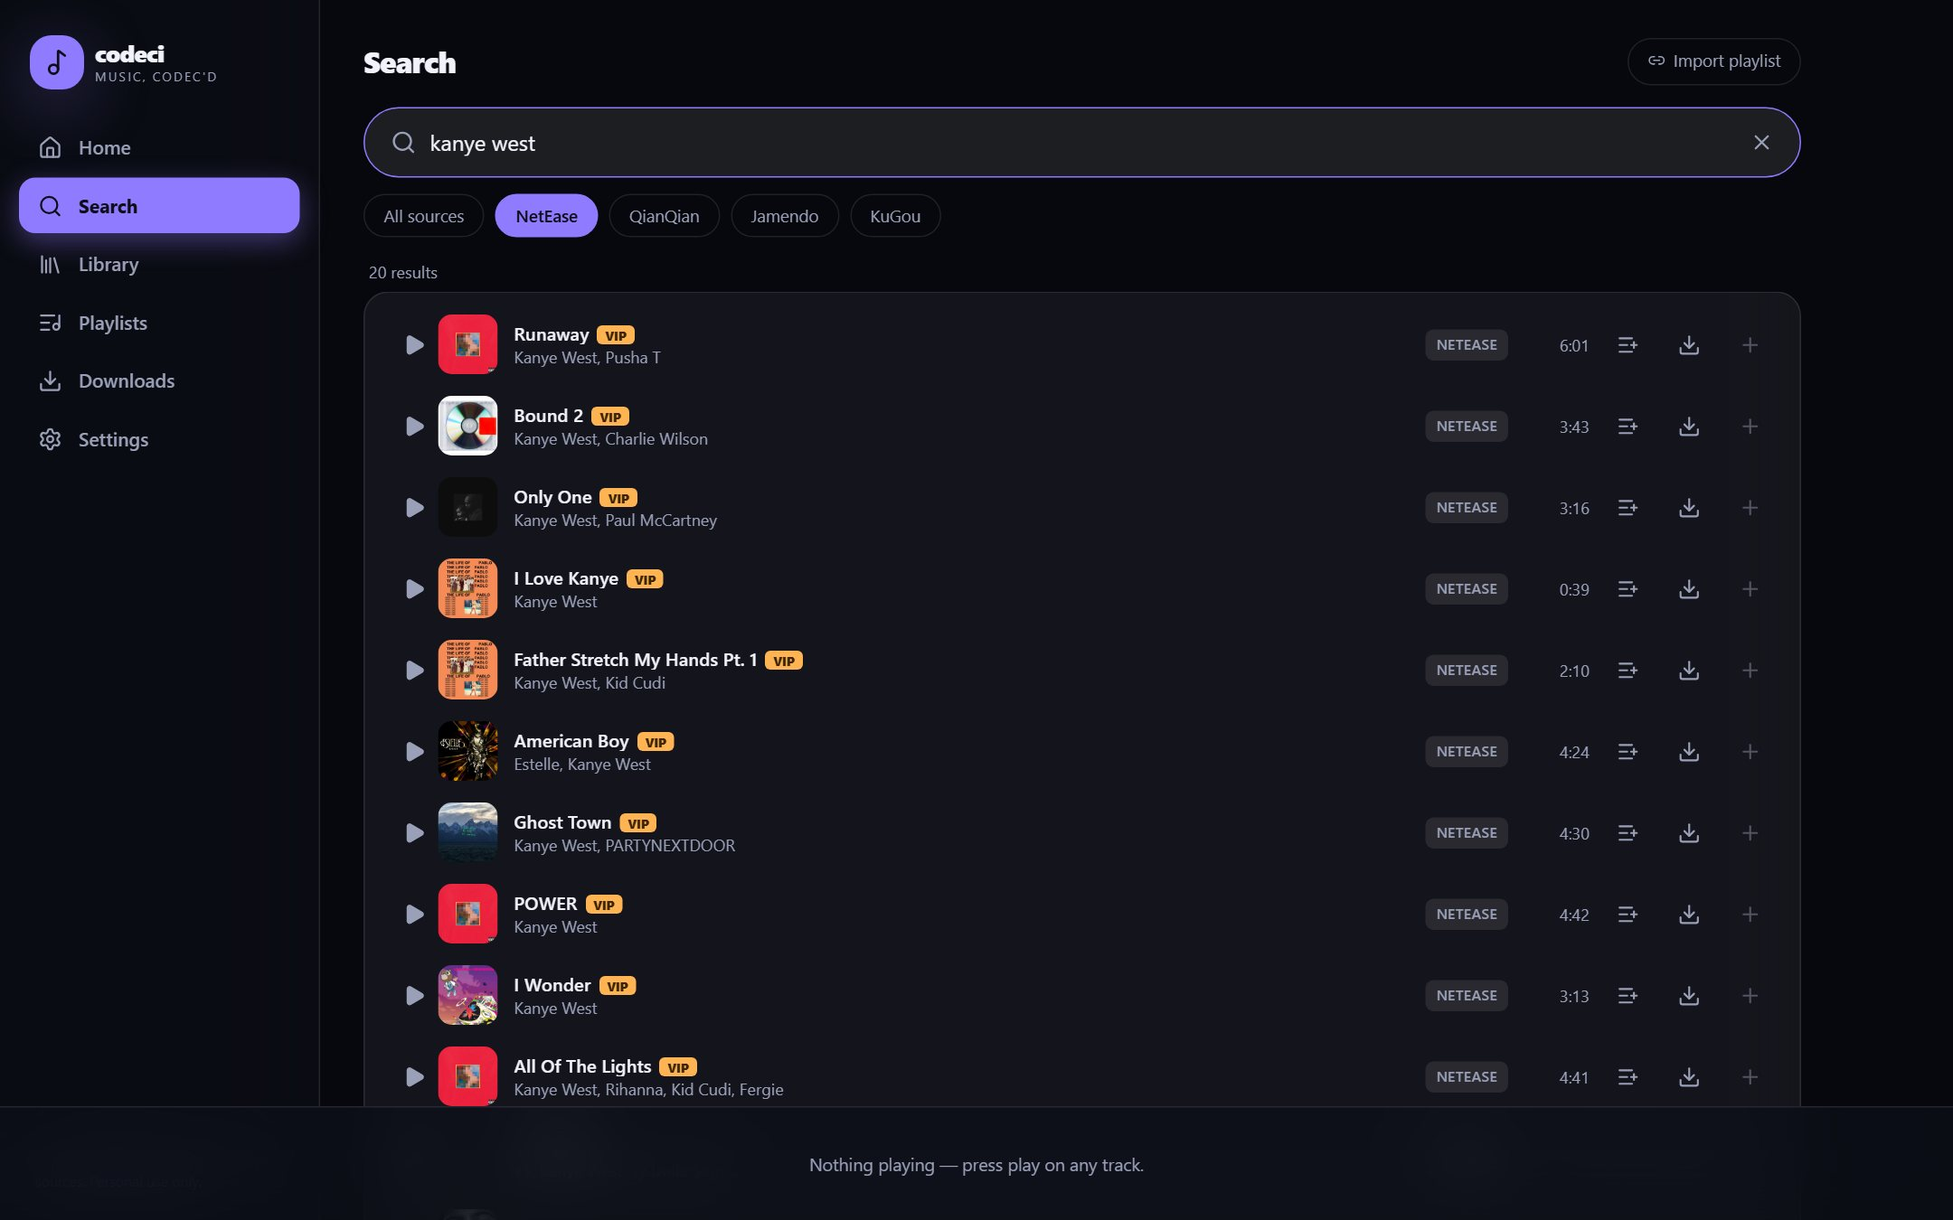
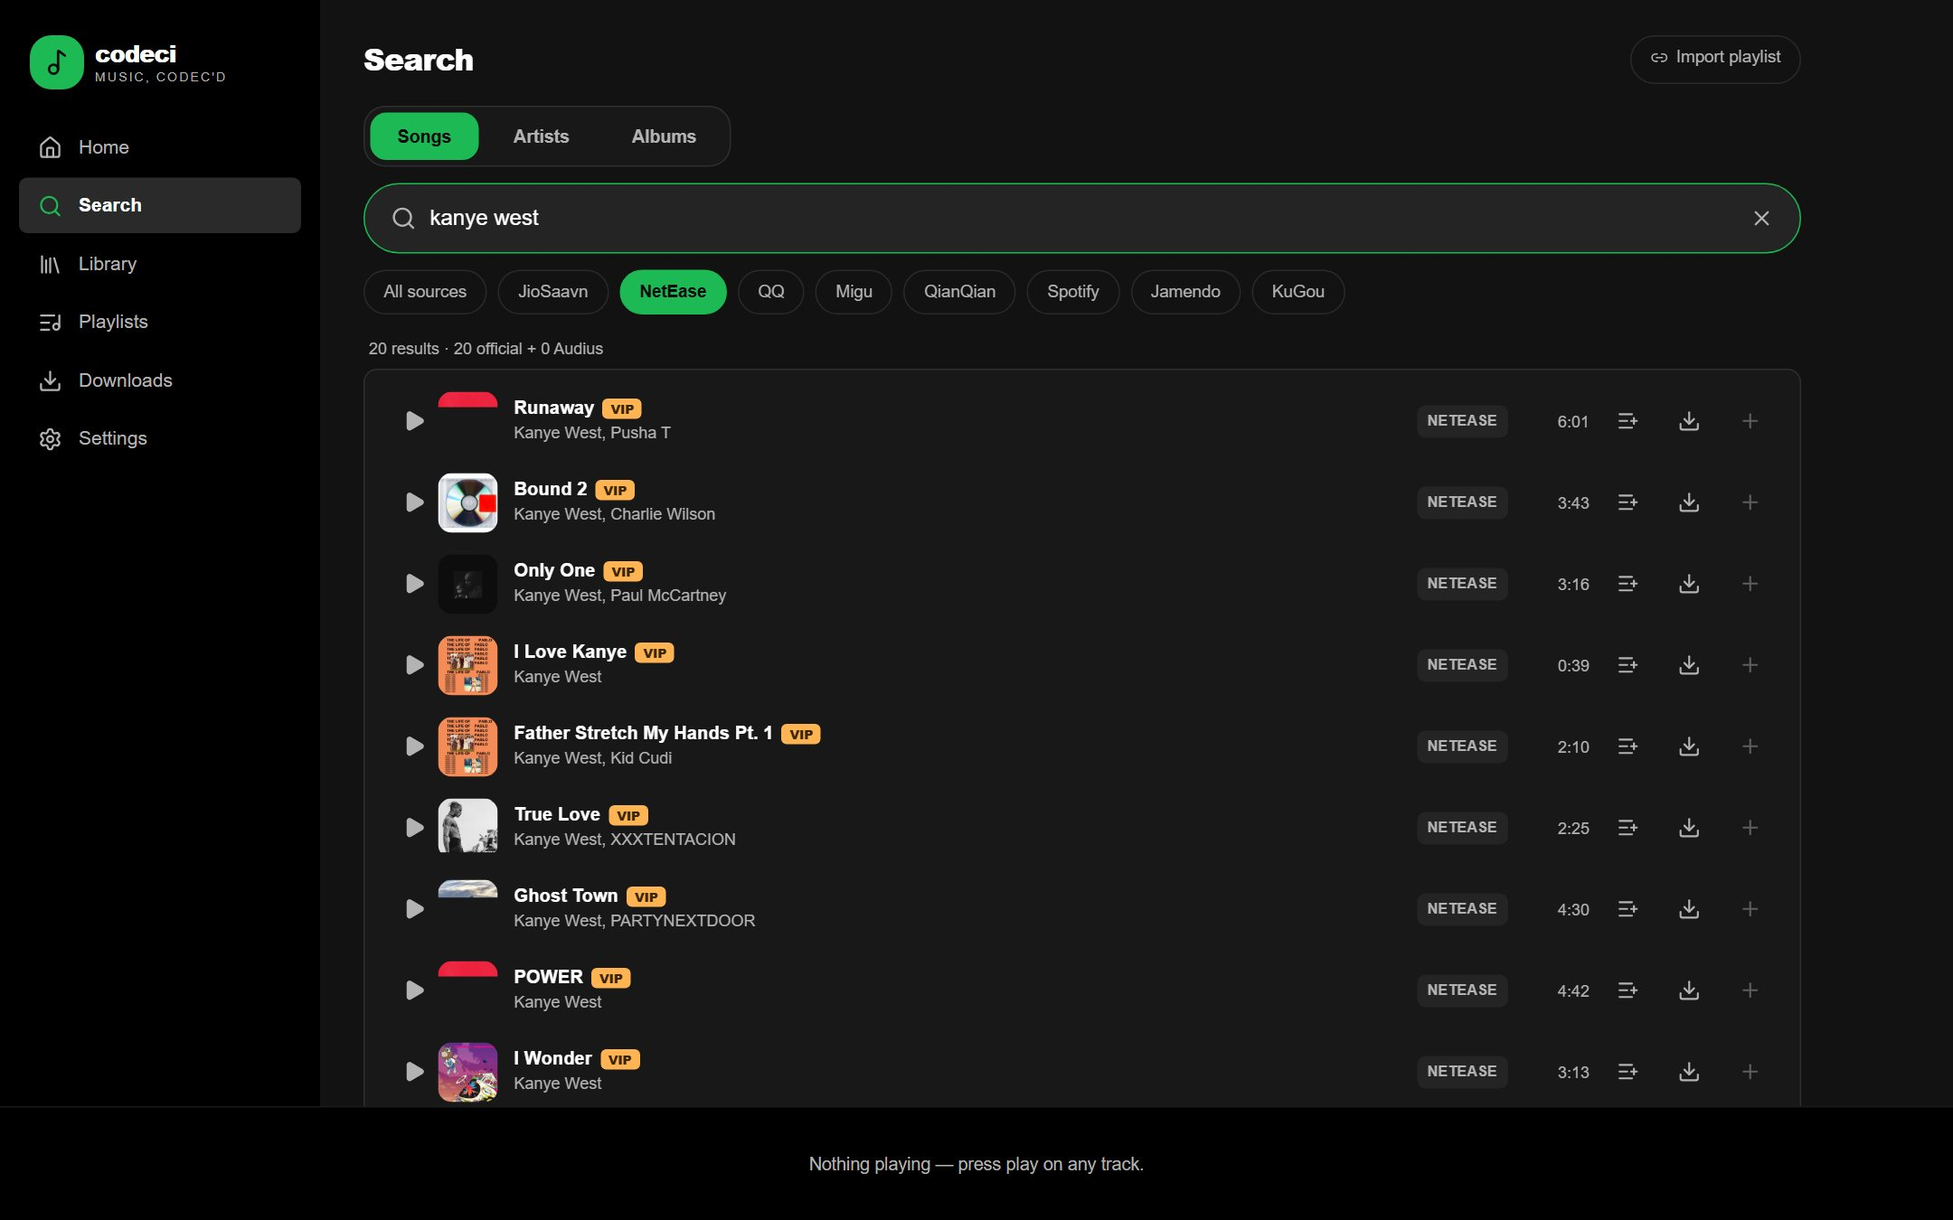
feat(ui): Spotify theme (default) + add-on sources in Settings; defaults now JioSaavn+NetEase; screenshots updated

diff --git a/frontend/src/pages/Settings.tsx b/frontend/src/pages/Settings.tsx
@@ -7,25 +7,28 @@ import {
   Radio,
   ChevronRight,
 } from "lucide-react";
-import { ACCENTS_LIQUID, ACCENTS_PIXELOS, useSettings } from "../stores/settings";
+import { ACCENTS_LIQUID, ACCENTS_PIXELOS, ACCENTS_SPOTIFY, useSettings } from "../stores/settings";
 
 const SOURCE_OPTIONS: { slug: string; label: string; note?: string }[] = [
   { slug: "NeteaseMusicClient", label: "NetEase (China)" },
+  { slug: "JioSaavnMusicClient", label: "JioSaavn (free · India+English · 320kbps)", note: "~8s — fastest famous-catalog source on this network" },
   { slug: "QQMusicClient", label: "QQ Music (China)" },
   { slug: "KuwoMusicClient", label: "Kuwo", note: "~40s · verified famous catalog on intl networks" },
   { slug: "MiguMusicClient", label: "Migu (China)" },
   { slug: "QianqianMusicClient", label: "QianQian (China)" },
   { slug: "KugouMusicClient", label: "KuGou (China)" },
+  { slug: "SpotifyMusicClient", label: "Spotify", note: "Real catalog, but ~80s on this network" },
+  { slug: "QobuzMusicClient", label: "Qobuz", note: "Needs your Qobuz login cookie + a subscription" },
+  { slug: "TIDALMusicClient", label: "TIDAL", note: "Needs your Tidal login + ffmpeg + N_m3u8DL-RE" },
   { slug: "YouTubeMusicClient", label: "YouTube Music", note: "~3 min per search (ytmusicapi) — leave off for everyday use" },
-  { slug: "JamendoMusicClient", label: "Jamendo (CC, needs free client_id)" },
+  { slug: "JamendoMusicClient", label: "Jamendo (CC)" },
   { slug: "FMAMusicClient", label: "Free Music Archive (CC)" },
   { slug: "AudiusMusicClient", label: "Audius (no key)" },
 ];
 
 export function SettingsPage() {
   const s = useSettings();
-  const isLiquid = s.theme === "liquid";
-  const accents = isLiquid ? ACCENTS_LIQUID : ACCENTS_PIXELOS;
+  const accents = s.theme === "pixelos" ? ACCENTS_PIXELOS : s.theme === "spotify" ? ACCENTS_SPOTIFY : ACCENTS_LIQUID;
 
   return (
     <div className="max-w-[860px]">
@@ -33,8 +36,20 @@ export function SettingsPage() {
 
       {/* Theme */}
       <SettingsGroup title="Appearance" icon={<Palette size={16} />}>
-        <div className="grid grid-cols-2 gap-3 mb-1">
-          <button className="theme-tile" data-active={isLiquid} onClick={() => s.set({ theme: "liquid" })}>
+        <div className="grid grid-cols-3 gap-3 mb-1">
+          <button className="theme-tile" data-active={s.theme === "spotify"} onClick={() => s.set({ theme: "spotify" })}>
+            <div className="h-24 p-2.5" style={{ background: "#121212" }}>
+              <div className="h-9 rounded-lg p-2" style={{ background: "#181818" }}>
+                <div className="h-3 w-14 rounded-full" style={{ background: "#1DB954" }} />
+                <div className="mt-1.5 h-2 w-24 rounded-full" style={{ background: "#3a3a3a" }} />
+              </div>
+              <div className="mt-1.5 flex gap-1.5">
+                {[0, 1, 2].map((i) => <div key={i} className="h-5 flex-1 rounded-md" style={{ background: "#242424" }} />)}
+              </div>
+            </div>
+            <div className="px-3 py-2 text-[12px] font-bold text-left" style={{ background: "var(--panel-solid)" }}>Spotify</div>
+          </button>
+          <button className="theme-tile" data-active={s.theme === "liquid"} onClick={() => s.set({ theme: "liquid" })}>
             <div className="h-24 p-2.5" style={{ background: "#0d0f18" }}>
               <div className="h-9 rounded-xl p-2" style={{ background: "#161828" }}>
                 <div className="h-3 w-14 rounded-full" style={{ background: "#8f7bff" }} />
@@ -46,7 +61,7 @@ export function SettingsPage() {
             </div>
             <div className="px-3 py-2 text-[12px] font-bold text-left" style={{ background: "var(--panel-solid)" }}>Liquid Glass</div>
           </button>
-          <button className="theme-tile" data-active={!isLiquid} onClick={() => s.set({ theme: "pixelos" })}>
+          <button className="theme-tile" data-active={s.theme === "pixelos"} onClick={() => s.set({ theme: "pixelos" })}>
             <div className="h-24 p-2.5" style={{ background: "#f3edf7" }}>
               <div className="h-9 rounded-2xl p-2" style={{ background: "#e6e0e9" }}>
                 <div className="h-3 w-14 rounded-full" style={{ background: "#6750a4" }} />
@@ -66,7 +81,7 @@ export function SettingsPage() {
             ))}
           </div>
         </SettingRow>
-        {isLiquid && (
+        {s.theme === "liquid" && (
           <SettingRow label="Glass intensity" hint="Blur behind panels">
             <div className="flex gap-2">
               {(["low", "medium", "high"] as const).map((g) => (
@@ -75,7 +90,7 @@ export function SettingsPage() {
             </div>
           </SettingRow>
         )}
-        {!isLiquid && (
+        {s.theme === "pixelos" && (
           <SettingRow label="Dark tonal" hint="PixelOS dark surface">
             <Toggle on={s.pixelosDark} onChange={(v) => s.set({ pixelosDark: v })} />
           </SettingRow>
@@ -83,8 +98,8 @@ export function SettingsPage() {
       </SettingsGroup>
 
       {/* Sources */}
-      <SettingsGroup title="Music sources" icon={<Radio size={16} />}>
-        <p className="text-[12px] px-1 pb-2" style={{ color: "var(--text-dim)" }}>Enabled sources are queried in parallel. Fewer sources = faster, more reliable search.</p>
+      <SettingsGroup title="Add-on sources" icon={<Radio size={16} />}>
+        <p className="text-[12px] px-1 pb-2" style={{ color: "var(--text-dim)" }}>Default catalogs are <b>JioSaavn + NetEase</b> (fastest famous catalogs on intl networks). Everything below is opt-in. More sources = slower merge.</p>
         {SOURCE_OPTIONS.map(({ slug, label, note }) => (
           <SettingRow key={slug} label={label} hint={note ?? slug.replace(/MusicClient$/, "")}>
             <Toggle on={s.enabledSources.includes(slug)} onChange={() => s.toggleSource(slug)} />
@@ -140,7 +155,8 @@ const ACCENT_HEX: Record<string, string> = {
   crimson: "#ff5d73",
   peach: "#8a5450",
   teal: "#006a6a",
-  green: "#386a20",
+  green: "#1DB954",
+  white: "#f5f5f5",
 };
 
 function SettingsGroup({ title, icon, children }: { title: string; icon: React.ReactNode; children: React.ReactNode }) {

diff --git a/frontend/src/stores/settings.ts b/frontend/src/stores/settings.ts
@@ -1,7 +1,7 @@
 import { create } from "zustand";
 import { persist } from "zustand/middleware";
 
-export type Theme = "liquid" | "pixelos";
+export type Theme = "spotify" | "liquid" | "pixelos";
 
 interface SettingsState {
   theme: Theme;
@@ -28,12 +28,12 @@ interface SettingsState {
 export const useSettings = create<SettingsState>()(
   persist(
     (set, get) => ({
-      theme: "liquid",
+      theme: "spotify",
       accent: "violet",
       glass: "medium",
       pixelosDark: false,
       onboardingDone: false,
-      enabledSources: ["NeteaseMusicClient", "KuwoMusicClient"],
+      enabledSources: ["JioSaavnMusicClient", "NeteaseMusicClient"],
       jamendoClientId: "",
       downloadDir: "",
       backendUrl: "http://127.0.0.1:8787",
@@ -56,26 +56,38 @@ export const useSettings = create<SettingsState>()(
     }),
     {
       name: "codeci-settings",
-      version: 4,
+      version: 6,
       migrate: (persisted) => {
         // v2: NetEase-only default (Migu is unreachable/slow on intl networks).
         // Factory-default sessions migrate to the fast default; custom source
         // selections are kept untouched.
-        // v3: drop YouTubeMusicClient from persisted enabled lists — it never
-        // returns within interactive latency there and leaves the UI on
-        // "Searching YouTube…" forever. Re-enable explicitly if you want to wait it out.
-        // v4: upgrade NetEase-only defaults to NetEase + Kuwo (Kuwo verified ~40s
-        // with real famous catalog).
+        // v6: theme default -> Spotify; sources -> JioSaavn + NetEase (the two measured
+        // fastest famous-catalog sources on intl networks). Everything else = Settings add-ons.
+        // v5: JioSaavn (~8s famous catalog incl. English tracks) added to factory defaults.
+        // v4: NetEase-only defaults upgraded to NetEase + Kuwo.
+        // v3: dropped YouTubeMusicClient from persisted enabled lists.
         const state = (persisted ?? {}) as Record<string, unknown>;
-        const factoryV1 = ["NeteaseMusicClient", "MiguMusicClient", "QQMusicClient", "KuwoMusicClient"];
+        const NE = "NeteaseMusicClient", KU = "KuwoMusicClient", JIO = "JioSaavnMusicClient";
+        const TWO = [JIO, NE];
+        const knownDefaults = [
+          ["MiguMusicClient"],
+          [NE],
+          [NE, KU],
+          [NE, "MiguMusicClient", "QQMusicClient", KU],
+          [JIO, KU, NE],
+        ];
         const cur = Array.isArray(state.enabledSources) ? (state.enabledSources as string[]) : null;
-        if (!cur || (cur.length === factoryV1.length && factoryV1.every((s) => cur.includes(s)))) {
-          state.enabledSources = ["NeteaseMusicClient", "KuwoMusicClient"];
-        } else if (cur.length === 1 && cur[0] === "NeteaseMusicClient") {
-          state.enabledSources = ["NeteaseMusicClient", "KuwoMusicClient"];
+        const matchesKnown = cur && knownDefaults.some((k) => k.length === cur.length && k.every((s) => cur.includes(s)));
+        if (!cur || matchesKnown) {
+          state.enabledSources = TWO;
         } else {
           const filtered = cur.filter((s) => s !== "YouTubeMusicClient");
-          state.enabledSources = filtered.length ? filtered : ["NeteaseMusicClient", "KuwoMusicClient"];
+          state.enabledSources = filtered.length ? filtered : TWO;
+        }
+        // factory theme picks (never customized) -> spotify
+        if (state.theme === "liquid" || state.theme === "pixelos") {
+          const v5Theme = state.theme; // only switch untouched defaults
+          if (v5Theme === "liquid") state.theme = "spotify";
         }
         return state as unknown as SettingsState;
       },
@@ -85,3 +97,4 @@ export const useSettings = create<SettingsState>()(
 
 export const ACCENTS_LIQUID = ["violet", "sunset", "mint", "crimson"] as const;
 export const ACCENTS_PIXELOS = ["violet", "peach", "teal", "green"] as const;
+export const ACCENTS_SPOTIFY = ["green", "white", "crimson"] as const;

diff --git a/frontend/src/index.css b/frontend/src/index.css
@@ -29,11 +29,52 @@
   --font: "Inter", -apple-system, "Segoe UI", Roboto, sans-serif;
 }
 
+[data-theme="spotify"][data-accent="white"] { --accent: #f5f5f5; --accent-2: #ffffff; --on-accent: #0a0a0a; --playing: #f5f5f5; }
+[data-theme="spotify"][data-accent="crimson"] { --accent: #f15e6c; --accent-2: #ff8494; --on-accent: #0a0a0a; --playing: #f15e6c; }
 [data-theme="liquid"][data-accent="sunset"] { --accent: #ff8f6b; --accent-2: #8f7bff; --playing: #ff8f6b; }
 [data-theme="liquid"][data-accent="mint"] { --accent: #5ee0a0; --accent-2: #8f7bff; --playing: #5ee0a0; }
 [data-theme="liquid"][data-accent="crimson"] { --accent: #ff5d73; --accent-2: #ffb454; --playing: #ff5d73; }
 [data-theme="liquid"][data-glass="low"] { --glass-blur: 8px; --panel: rgba(255,255,255,0.07); }
 [data-theme="liquid"][data-glass="high"] { --glass-blur: 34px; --panel: rgba(255,255,255,0.04); }
+
+[data-theme="spotify"] {
+  --bg: #121212;
+  --bg-2: #000000;
+  --panel: #181818;
+  --panel-2: #242424;
+  --panel-solid: #181818;
+  --stroke: rgba(255, 255, 255, 0.10);
+  --stroke-strong: rgba(255, 255, 255, 0.18);
+  --text: #ffffff;
+  --text-dim: #b3b3b3;
+  --accent: #1DB954;
+  --accent-2: #1ed760;
+  --on-accent: #0a0a0a;
+  --playing: #1DB954;
+  --danger: #f15e6c;
+  --ok: #1ed760;
+  --radius: 10px;
+  --radius-sm: 6px;
+  --glass-blur: 0px;
+  --shadow-glow: none;
+  --sidebar-w: 236px;
+  --font: "Inter", "Circular", "CircularSp", Arial, sans-serif;
+}
+[data-theme="spotify"] .glass, [data-theme="spotify"] .sidebar, [data-theme="spotify"] .player-bar {
+  background: var(--panel);
+  border-color: var(--stroke);
+  backdrop-filter: none;
+  -webkit-backdrop-filter: none;
+}
+[data-theme="spotify"] .glass-strong { background: var(--panel-2); backdrop-filter: none; -webkit-backdrop-filter: none; }
+[data-theme="spotify"] .sidebar { background: var(--bg-2); border-right: 0; }
+[data-theme="spotify"] .player-bar { background: var(--bg-2); border-top: 1px solid var(--stroke); }
+[data-theme="spotify"] .main-scroll { padding-top: 26px; }
+[data-theme="spotify"] .nav-item[data-active="true"] { box-shadow: none; color: #ffffff; background: #2a2a2a; font-weight: 700; }
+[data-theme="spotify"] .nav-item[data-active="true"] svg { color: var(--accent); }
+[data-theme="spotify"] .track-row[data-playing="true"] .track-title { color: var(--accent); }
+[data-theme="spotify"] .btn-primary { color: #0a0a0a; }
+[data-theme="spotify"] .seg-btn { background: #242424; }
 
 [data-theme="pixelos"] {
   --bg: #fef7ff;

diff --git a/frontend/src/pages/Home.tsx b/frontend/src/pages/Home.tsx
@@ -21,9 +21,10 @@ export function HomePage({ onGoSearch }: { onGoSearch: () => void }) {
           <div className="text-[11px] uppercase tracking-[0.18em]" style={{ color: "var(--accent)" }}>Good evening</div>
           <h1 className="text-[34px] font-extrabold tracking-tight leading-tight">Sound, sorted.</h1>
         </div>
-        <div className="flex items-center gap-2">
+        <div className="flex flex-wrap items-center gap-2">
+          <button className="chip" data-active={theme === "spotify"} onClick={() => set({ theme: "spotify" })}>Spotify</button>
           <button className="chip" data-active={theme === "liquid"} onClick={() => set({ theme: "liquid" })}>Liquid Glass</button>
-          <button className="chip" data-active={theme === "pixelos"} onClick={() => set({ theme: "pixelos" })}>PixelOS Material</button>
+          <button className="chip" data-active={theme === "pixelos"} onClick={() => set({ theme: "pixelos" })}>PixelOS</button>
         </div>
       </header>
 

diff --git a/frontend/src/api.ts b/frontend/src/api.ts
@@ -23,7 +23,7 @@ async function invokeCmd<T>(cmd: string, args?: Record<string, unknown>): Promis
 
 /* ---------------- sources / search ---------------- */
 
-export const DEFAULT_SOURCES = ["NeteaseMusicClient", "KuwoMusicClient"];
+export const DEFAULT_SOURCES = ["JioSaavnMusicClient", "NeteaseMusicClient"];
 
 export const SOURCE_LABEL: Record<string, string> = {
   NeteaseMusicClient: "NetEase",
@@ -34,6 +34,11 @@ export const SOURCE_LABEL: Record<string, string> = {
   JamendoMusicClient: "Jamendo",
   KugouMusicClient: "KuGou",
   YouTubeMusicClient: "YouTube",
+  SpotifyMusicClient: "Spotify",
+  JioSaavnMusicClient: "JioSaavn",
+  QobuzMusicClient: "Qobuz",
+  TIDALMusicClient: "TIDAL",
+  FMAMusicClient: "FMA",
   audiusmusicclient: "Audius",
   audius: "Audius",
   jamendo: "Jamendo",

diff --git a/frontend/src/pages/Search.tsx b/frontend/src/pages/Search.tsx
@@ -17,7 +17,7 @@ import { AlbumCard } from "../components/AlbumCard";
 import { useSettings } from "../stores/settings";
 import type { Album, Artist, Track } from "../types";
 
-const SOURCE_CHIPS = [...DEFAULT_SOURCES, "QianqianMusicClient", "JamendoMusicClient", "KugouMusicClient"];
+const SOURCE_CHIPS = [...DEFAULT_SOURCES, "QQMusicClient", "MiguMusicClient", "QianqianMusicClient", "SpotifyMusicClient", "JamendoMusicClient", "KugouMusicClient"];
 type Tab = "songs" | "artists" | "albums";
 const TABS: { id: Tab; label: string }[] = [
   { id: "songs", label: "Songs" },

diff --git a/backend/probe_jiosaavn.py b/backend/probe_jiosaavn.py
@@ -1,0 +1,24 @@
+import io
+import sys
+import time
+import json
+
+sys.stdout = io.TextIOWrapper(sys.stdout.buffer, encoding="utf-8")
+
+from musicdl import musicdl
+
+for src in ["JioSaavnMusicClient", "SpotifyMusicClient"]:
+    t0 = time.time()
+    try:
+        client = musicdl.MusicClient(music_sources=[src])
+        print(f"== {src}: init {time.time()-t0:.1f}s")
+        res = client.search(keyword="kanye west")
+        total = sum(len(v) for v in res.values())
+        print(f"   search {time.time()-t0:.1f}s -> {total} results")
+        for k, v in res.items():
+            for s in v[:6]:
+                d = s.todict()
+                keys = ("song_name", "singers", "album", "duration_s", "ext", "with_valid_download_url")
+                print("    ", json.dumps({kk: str(d.get(kk))[:55] for kk in keys}, ensure_ascii=False))
+    except Exception as e:
+        print(f"== {src}: FAILED after {time.time()-t0:.1f}s — {type(e).__name__}: {str(e)[:150]}")

diff --git a/README.md b/README.md
@@ -1,11 +1,11 @@
 # codeci
 
-> **codec** as in *music, got it*. A music app for Windows, CachyOS Linux and Android, built on [musicdl](https://github.com/CharlesPikachu/musicdl) — search the mainstream catalogs (NetEase, QQ, Kuwo, Migu…) or the open/CC catalog on-device, stream, download and organize it, with two themes: **Liquid Glass** and **PixelOS Material**.
+> **codec** as in *music, got it*. A music app for Windows, CachyOS Linux and Android, built on [musicdl](https://github.com/CharlesPikachu/musicdl) — search the mainstream catalogs (NetEase, QQ, Kuwo, JioSaavn…) or the open/CC catalog on-device, stream, download and organize it, with three themes: **Spotify** (default), **Liquid Glass** and **PixelOS Material**.
 
 [![License: PolyForm Noncommercial](https://img.shields.io/badge/license-PolyForm%20Noncommercial-blue.svg)](LICENSE)
 [![Status: early development](https://img.shields.io/badge/status-early%20dev-orange.svg)]()
 
-![codeci hero](docs/screenshots/hero-liquid-glass.jpg)
+![codeci — Spotify theme](docs/screenshots/hero-spotify.jpg)
 
 ---
 
@@ -16,7 +16,7 @@ The desktop experience (<kbd>Windows</kbd> + <kbd>CachyOS</kbd>) gets the **full
 | Feature | Desktop | Android APK |
 |---|---|---|
 | Mainstream sources (NetEase/QQ/Kuwo/Migu…) | ✅ via sidecar | via external backend (Termux), post-v1 |
-| Open/CC sources on-device (Audius, Wikimedia…) | ✅ | ✅ |
+| Default catalog | JioSaavn + NetEase — best speed-to-famous ratio (8 s / ~23 s) | Audius / CC sources |
 | Search / stream / download | ✅ | ✅ (open catalog) |
 | Playlist URL import | ✅ | planned |
 | Offline library, playlists, likes, history | ✅ (SQLite) | ✅ (SQLite, rusqlite) |
@@ -28,9 +28,11 @@ The desktop experience (<kbd>Windows</kbd> + <kbd>CachyOS</kbd>) gets the **full
 
 ## Screenshots
 
-| Liquid Glass (home + search) | Now Playing — live queue |
+| Spotify (home + search) | Now Playing — live queue |
 |---|---|
 | ![Search Kanye West on NetEase](docs/screenshots/search-kanye.jpg) | ![Now Playing](docs/screenshots/now-playing-liquid.jpg) |
+| Artists tab | Albums tab |
+| ![Artists](docs/screenshots/artists-tab.jpg) | ![Albums](docs/screenshots/albums-tab.jpg) |
 
 | PixelOS Material | Settings — themes |
 |---|---|
@@ -47,6 +49,13 @@ musicdl resolves download URLs + probes them per result, so search is not instan
 - Backend runs sources **in parallel with a 45 s per-source cap** — slow sources are dropped, never blocking fast ones
 - Default sources = **NetEase only**; QQ/Kuwo/Migu/YouTube remain toggles in Settings (YouTube note says ~3 min — don't enable casually)
 - CachyOS (CN users): all five mainland sources are fast — re-enable them in Settings
+
+## Search — three tabs, not one pile
+
+- **Songs** — progressive: instant Audius matches land in ~4 s, official NetEase/Kuwo catalog merges in below (mixed correctly, deduped)
+- **Artists** — NetEase artists (avatar, track & album counts; "ye" → Kanye West, 1,736 tracks, 102 albums) + Audius verified artists
+- **Albums** — the famous NetEase album wall (The Life of Pablo, MBDTF, The College Dropout, BULLY…) + Audius albums
+- Click any artist/album → jump to its songs in the Songs tab
 
 ## Quick start
 
